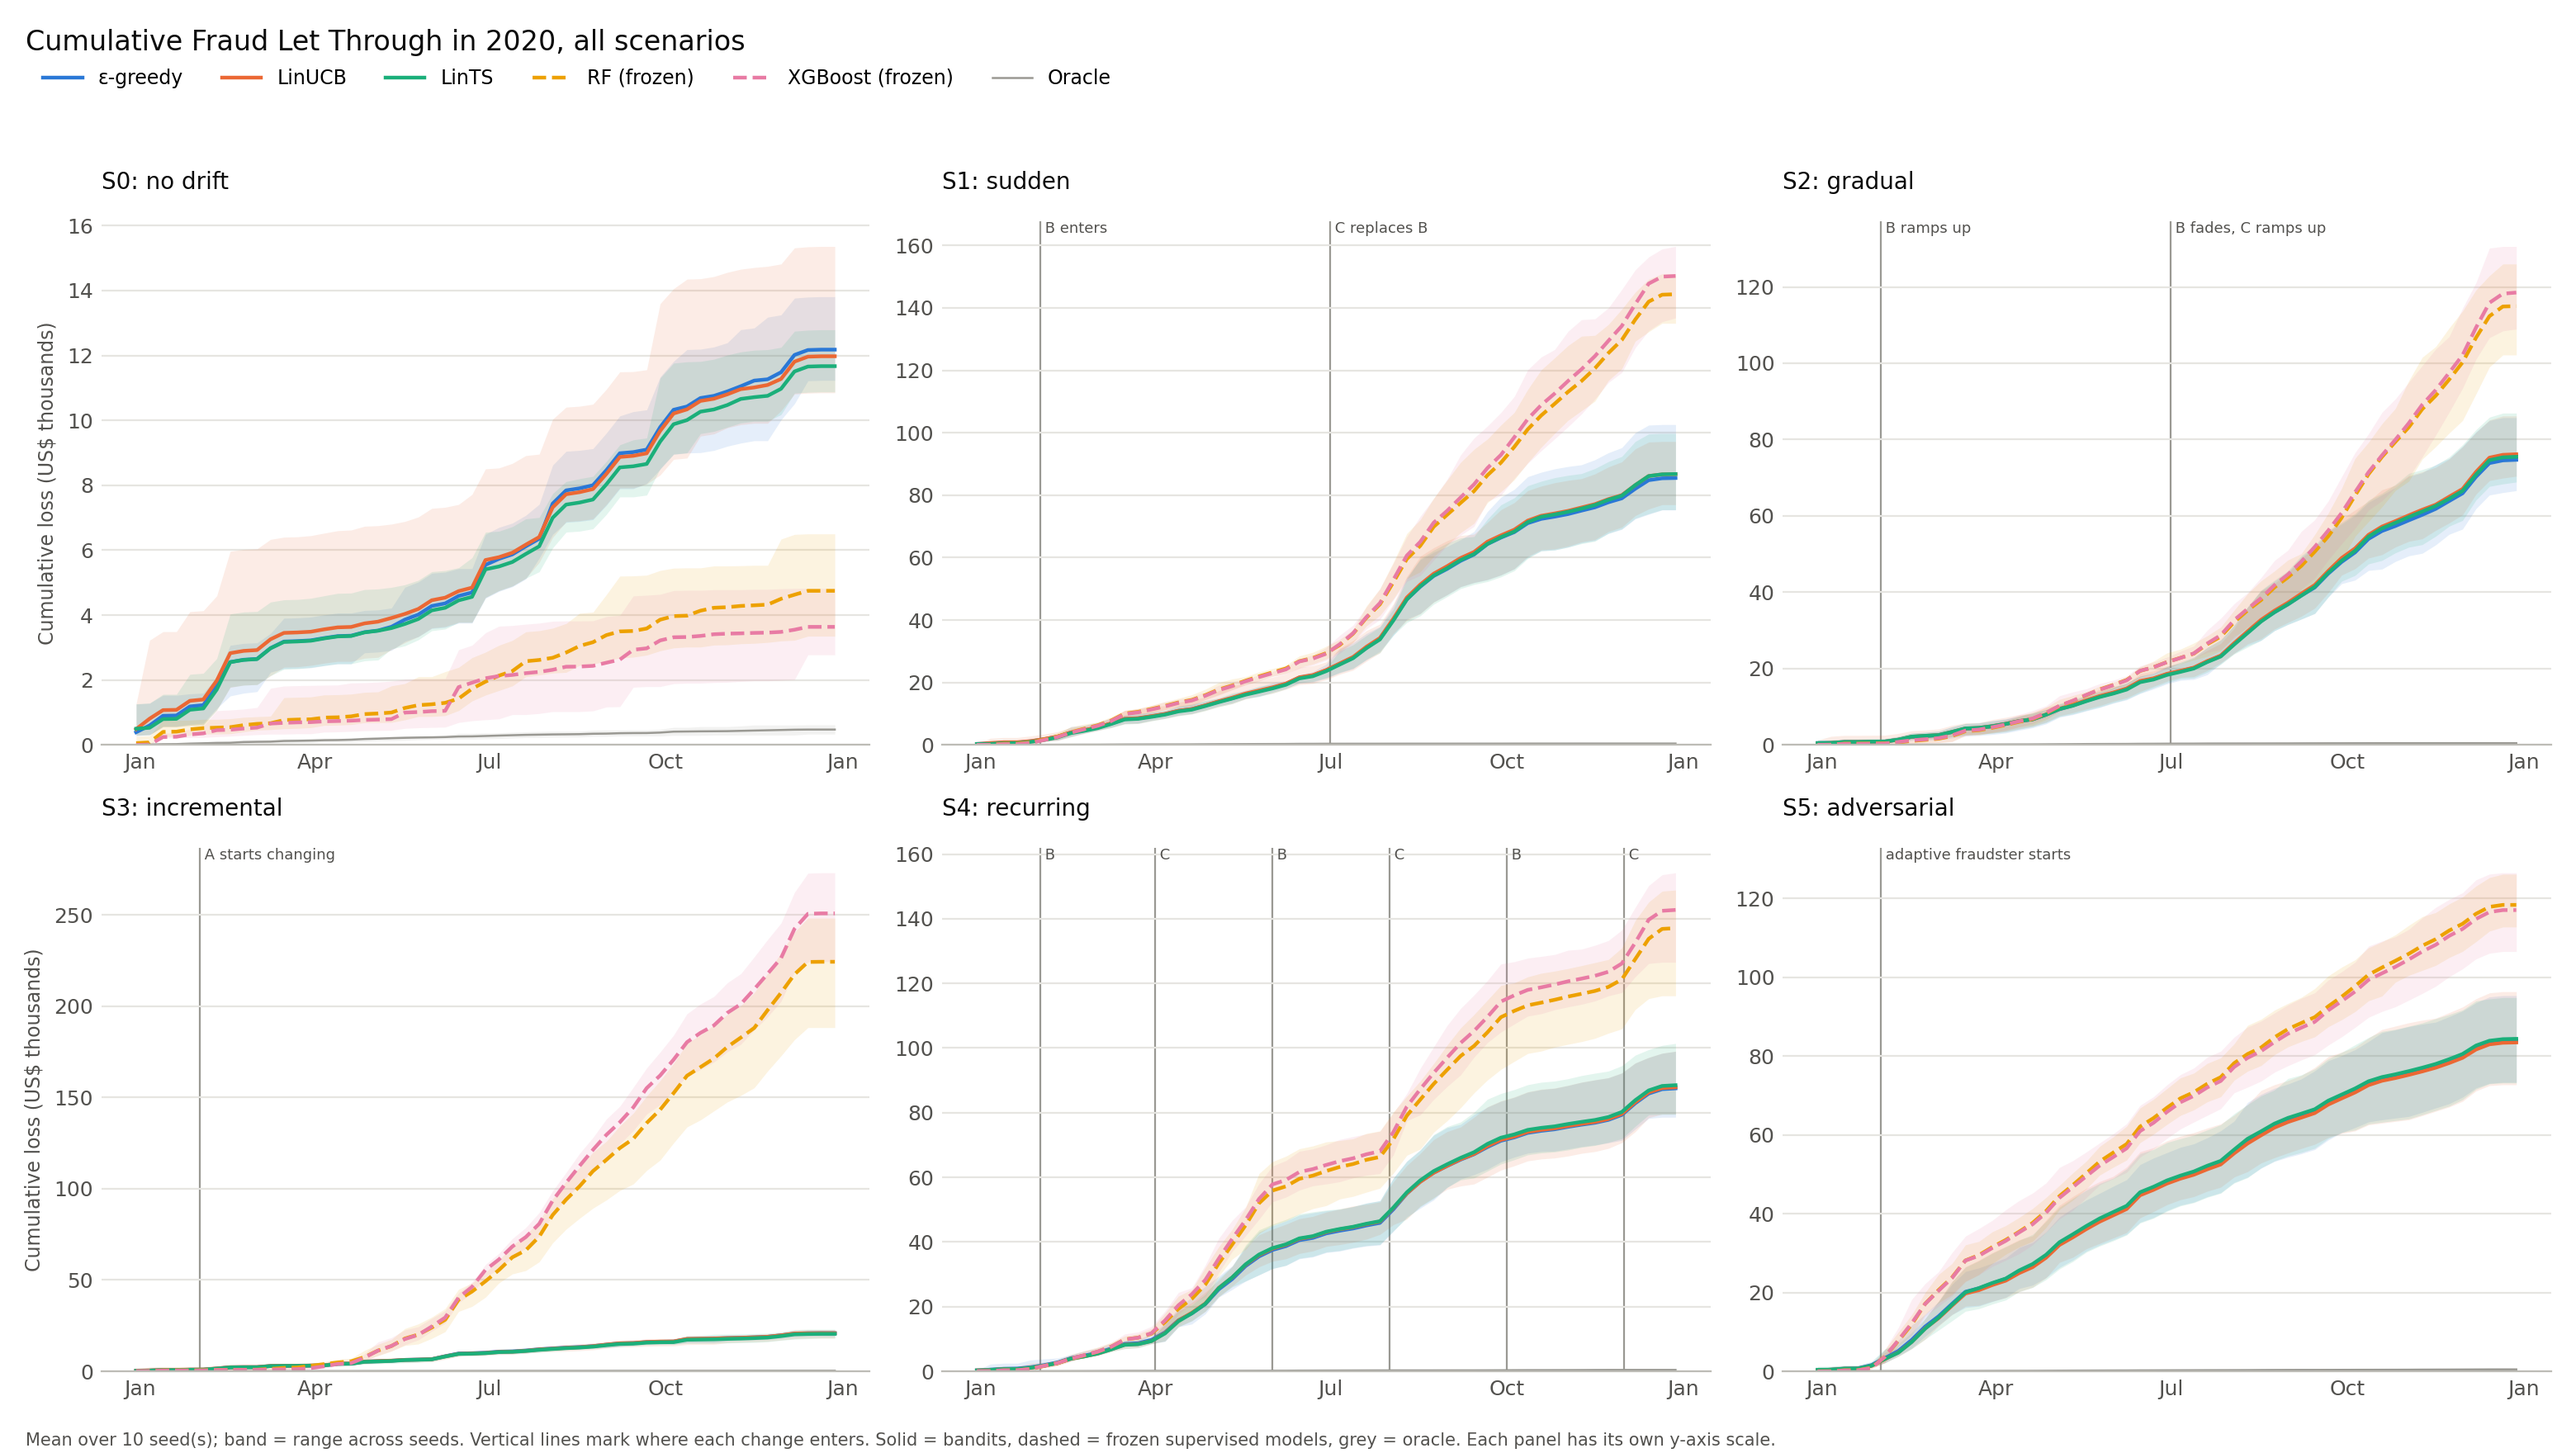
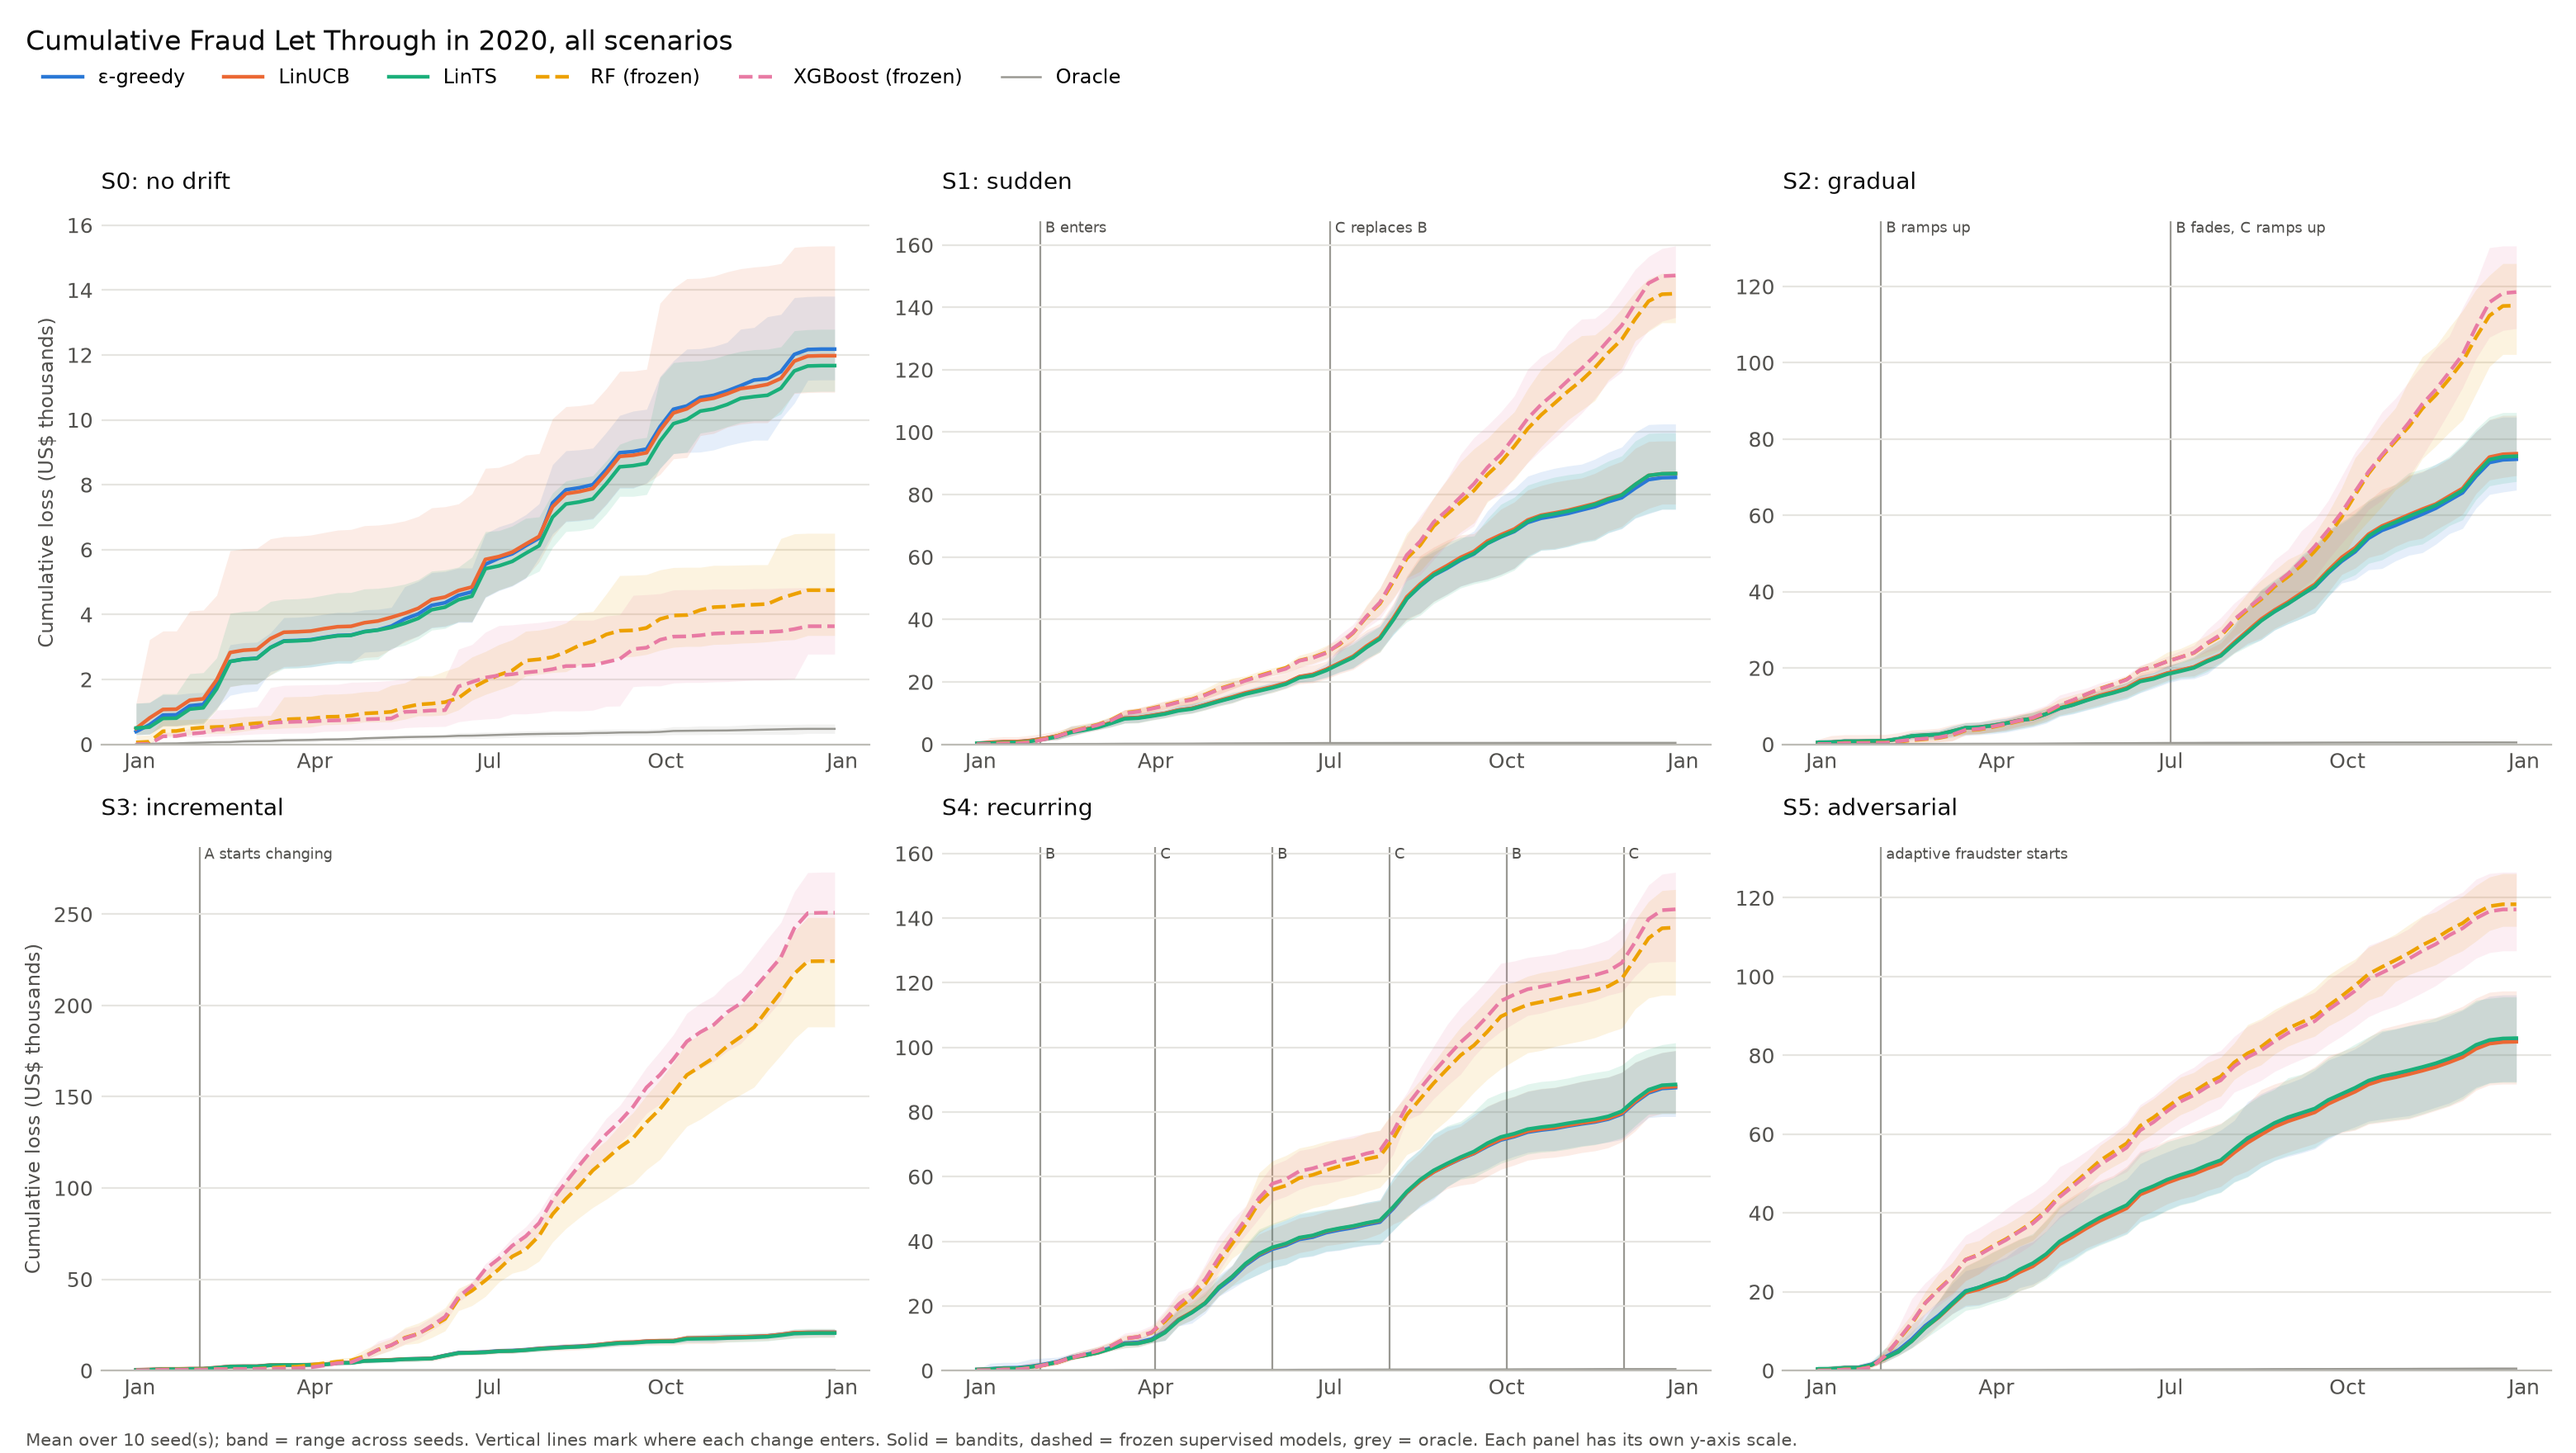
results(grid): regenerate figures over the full 480-run grid
The bandits were re-run at the tuning `tune` selects (WARM_N 600000 with EPSILON 0.001,
ALPHA 0.03, TS_SCALE 0.03) after the corpus had been built at WARM_N 50000, so Figures 1-3
and the retraining figures now cover 480 runs including monthly retraining.

Monthly retraining is worth -51% mean TFL against the frozen forest and is almost entirely
a drift effect (-$1.6k on stable S0, -$182k on S3). The re-tuned bandits are 3.7% worse out
of sample while winning on S3; that stays, because picking a tuning by its test-year cost
would be leakage.

diff --git a/PLAN-minimal-runtime.md b/PLAN-minimal-runtime.md
@@ -16,7 +16,7 @@ Everything below was measured on this box (56 cores, 112 GiB RAM), not estimated
 | inside one rf_frozen run | model scoring 48%, the 2019 fit ~49%, the day-by-day loop ~3% |
 | one rf_monthly run | **1,158 s** (11 retrains), vs 114 s for rf_frozen; 830 s only when the box is otherwise idle |
 | cold build of one scenario cache | **309 s**, 352 MB on disk |
-| worker memory per run | **0.17-0.35 GiB** (feature matrices are memory-mapped) |
+| worker memory per run | 0.17-0.35 GiB **at `WARM_N=50000`** (feature matrices are memory-mapped) - superseded, see "Re-tuning the bandits" |
 | throughput already proven | 420 full re-simulations in ~40 min at 14 concurrent workers |
 
 Two conclusions follow directly, and both were surprises:
@@ -89,6 +89,7 @@ single-threaded
 
 | situation | command | expected wall |
 |---|---|---|
+| **measured, 2026-10-24** | `python main.py all --retune --jobs 28` | **63 min** end to end (tune 19:46 -> figures 20:49), 30.08 CPU-hours of grid |
 | this box, caches and 420 runs on disk | `python main.py all --jobs 28` | ~44 min (60 rf_monthly runs left) |
 | fresh clone, warm nothing | `python main.py all --jobs 28` | ~25 min caches + ~55 min runs + ~3 min analyse = **~83 min** |
 | fresh clone, more cores | `python main.py all --jobs 36` | ~25 min + ~43 min + ~3 min = ~71 min |
@@ -101,17 +102,76 @@ weakens the statistics; it stays available as `--seeds` rather than being the de
 Dropping `xgb_monthly` is a scope change, not a speed trick: this branch can no longer say
 "retraining helps for both model families", only "for the random forest".
 
+## Re-tuning the bandits, and what it cost
+
+The first real run of `all` included `--retune`, and the new optimum was not the tuning the
+420-run corpus had been built with. `tune` scores candidates on 2019 only:
+
+| bandit | best on 2019 | previous corpus setting (`WARM_N=50000`) |
+|---|---|---|
+| eps_greedy | $318,557 (`WARM_N=600000, EPSILON=0.001`) | $340,965 |
+| linucb | $314,862 (`WARM_N=600000, ALPHA=0.03`) | $341,963 |
+| lints | $317,889 (`WARM_N=600000, TS_SCALE=0.03`) | $340,891 |
+
+All 180 bandit runs were re-run at the new optimum (3.6 CPU-hours, 0 problems afterwards,
+fingerprints regenerated; the pre-retune fingerprints are in
+`%TEMP%\corpus_fingerprints_pre-retune.json`).
+
+**Two things that came out of it that are easy to get wrong.**
+
+1. **Memory.** At `WARM_N=600000` twenty of the 180 runs died with
+   `numpy._core._exceptions._ArrayMemoryError: Unable to allocate 1.77 MiB for an array with
+   shape (1852394,) and data type bool` at `--jobs 28`, and zero died at `--jobs 6`. Failing
+   on a 1.77 MiB array is the system commit limit, not a runaway allocation: the warm-up fits
+   a supervised model on 600k rows instead of 50k, and the box had ~20 GiB free because an
+   unrelated process (`strata`) held 78 GiB. The earlier "0.17-0.35 GiB per worker, RAM is not
+   a constraint" line was measured at `WARM_N=50000` and does not carry over. Size `--jobs` to
+   free RAM. Failed runs are never written, so re-running them is the whole recovery.
+2. **The better tuning transferred badly.** Out of sample the re-tuned bandits are worse on
+   five of six scenarios: mean TFL 585k against 564k before (+3.7%), with S5 going 423k ->
+   544k. The one gain is the drift scenario S3, 629k -> 524k. So the 2019 optimum was partly
+   tuning-slice overfitting.
+
+   **Do not "fix" this by putting `WARM_N=50000` back because its numbers look better.**
+   Choosing a tuning by its test-year TFL is leakage. What is on disk now is the defensible
+   choice: parameters selected on 2019 only, which is what `tune` reproduces. Open question
+   for the write-up: why two `tune` runs picked different warm-up lengths - if the search
+   space changed, say so instead of implying the procedure is unstable.
+
+The paper's conclusion is untouched by any of this: best bandit 585k against best supervised
+69k (rf_monthly), an 8.5x gap.
+
+## The measured result
+
+Mean TFL over the 60 cells (thousands of USD):
+
+| | approve_all | rf_frozen | xgb_frozen | **rf_monthly** | linucb | lints | eps | oracle |
+|---|---|---|---|---|---|---|---|---|
+| all scenarios | 1,545 | 143 | 143 | **69** | 585 | 586 | 589 | 5 |
+| S0 stable | 2,316 | 27 | 19 | **26** | 636 | 637 | 642 | 7 |
+| S3 drift | 1,483 | 242 | 262 | **61** | 524 | 525 | 527 | 7 |
+| S5 adversarial | 1,627 | 135 | 127 | **75** | 544 | 546 | 548 | 4 |
+
+Monthly retraining is worth **-$73.7k on average (-51% vs frozen)** and it is entirely a
+drift effect: -$1.6k on the stable S0, -$182k on S3. On drifting and adversarial scenarios the
+retrained forest beats both frozen models.
+
 ## Not done, and what to watch
 
-- `xgb_monthly` is out of scope, and the tables were checked only with zero and one retrained
-  run present (`analyze-retrain` prints the row with blank error bars and no crash). The
-  figures for the full 10-seed monthly set are still unmade, as are 59 of the 60 rf_monthly
-  runs - which is what the ~44 min above buys.
+- `xgb_monthly` is out of scope on this branch, so the retraining comparison is one model
+  family only: "retraining helps for the random forest", not "for both families".
+- The 2019 tuning set is a single slice; `tune` prefers `WARM_N=600000` and it loses
+  out of sample (above). A proper answer needs tuning on more than one slice, which is a
+  research change, not a runtime one.
 - `RUN_COST_S` is a measured constant for *this* machine, and it is only used for the ETA
   printout - wrong values mislead nobody but the printout.
 - Cold builds are capped at 12 concurrent because this box currently has 20 GiB free (a
   `strata` process is holding 78 GiB); on an idle 112 GiB box that cap could rise.
-- The corpus fingerprints in `Results/corpus_fingerprints.json` stay the reference for any
-  future engine change, together with `python main.py check --replay N`.
+- The corpus fingerprints in `Results/corpus_fingerprints.json` (480 runs, regenerated after
+  the re-tune) stay the reference for any future engine change, together with
+  `python main.py check --replay N`. They are not tracked by git - back them up when they
+  change.
 - Backups: 420 runs (428 MB) and both fingerprint files in `C:\fcmab_backup\runs_20261023\`
-  (same disk as the working copy - this is protection against mistakes, not drive failure).
+  (same disk as the working copy - this is protection against mistakes, not drive failure),
+  pre-retune fingerprints in `%TEMP%\corpus_fingerprints_pre-retune.json`. The grid on disk is
+  now 480 runs and is newer than that backup.
